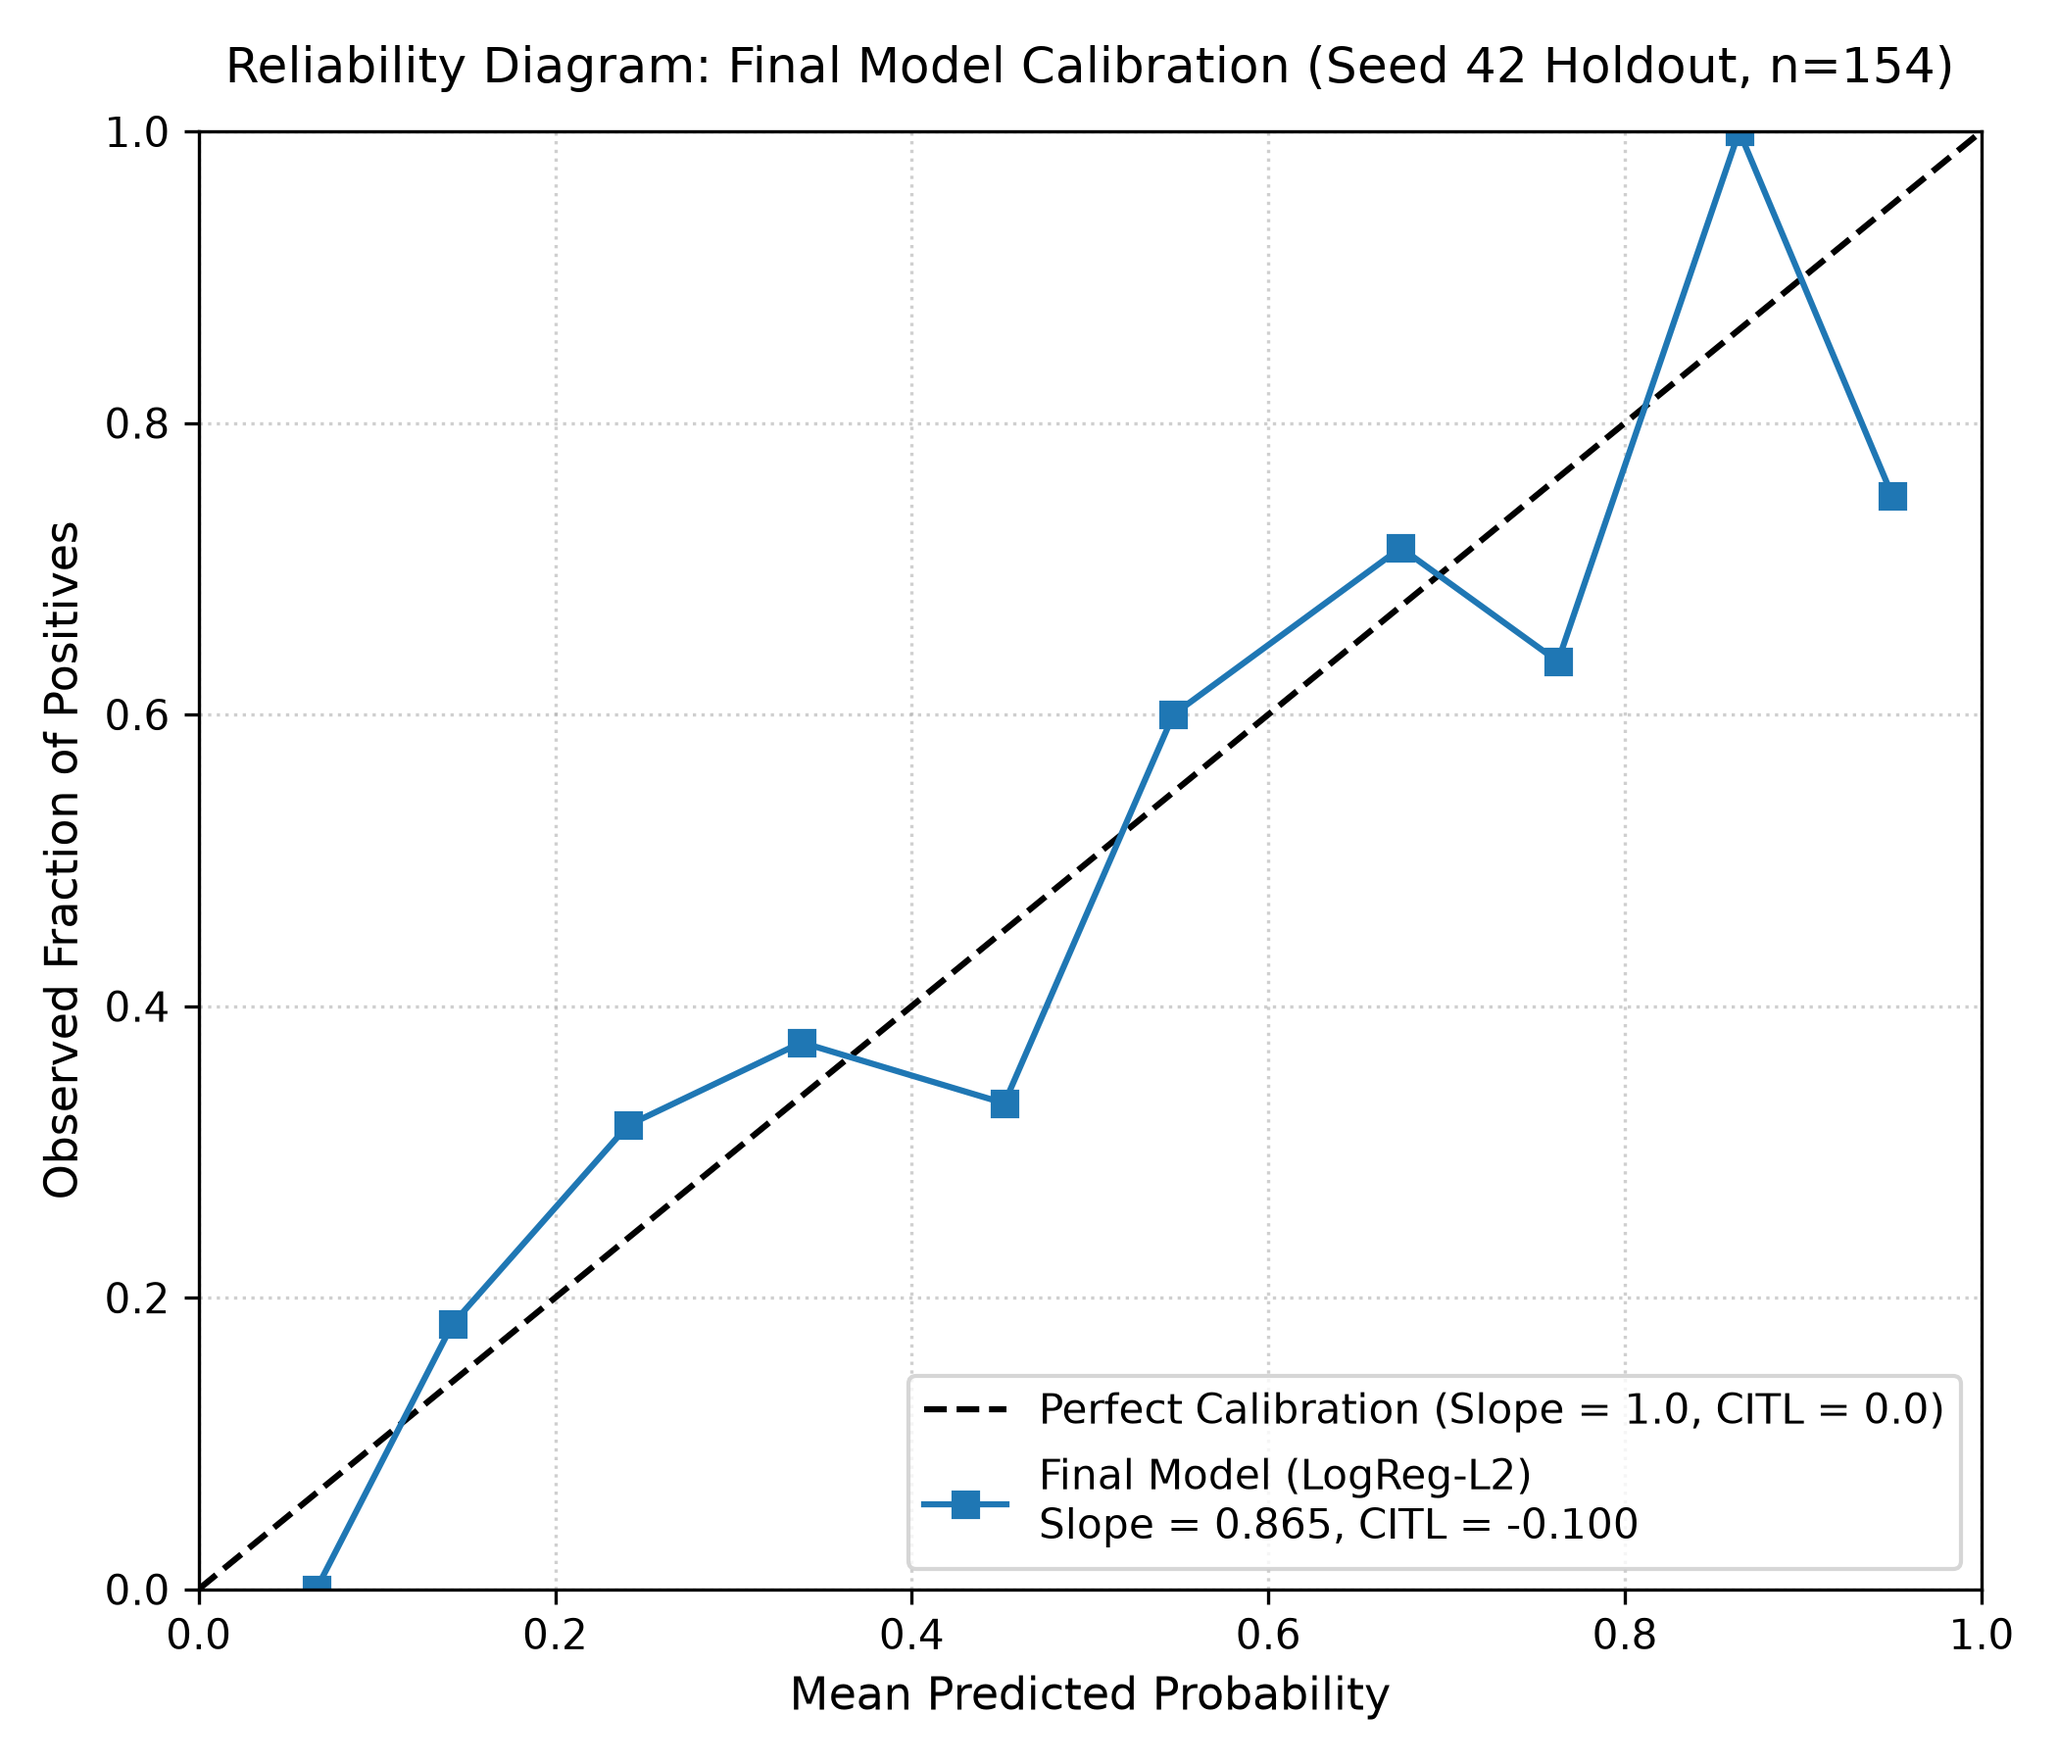
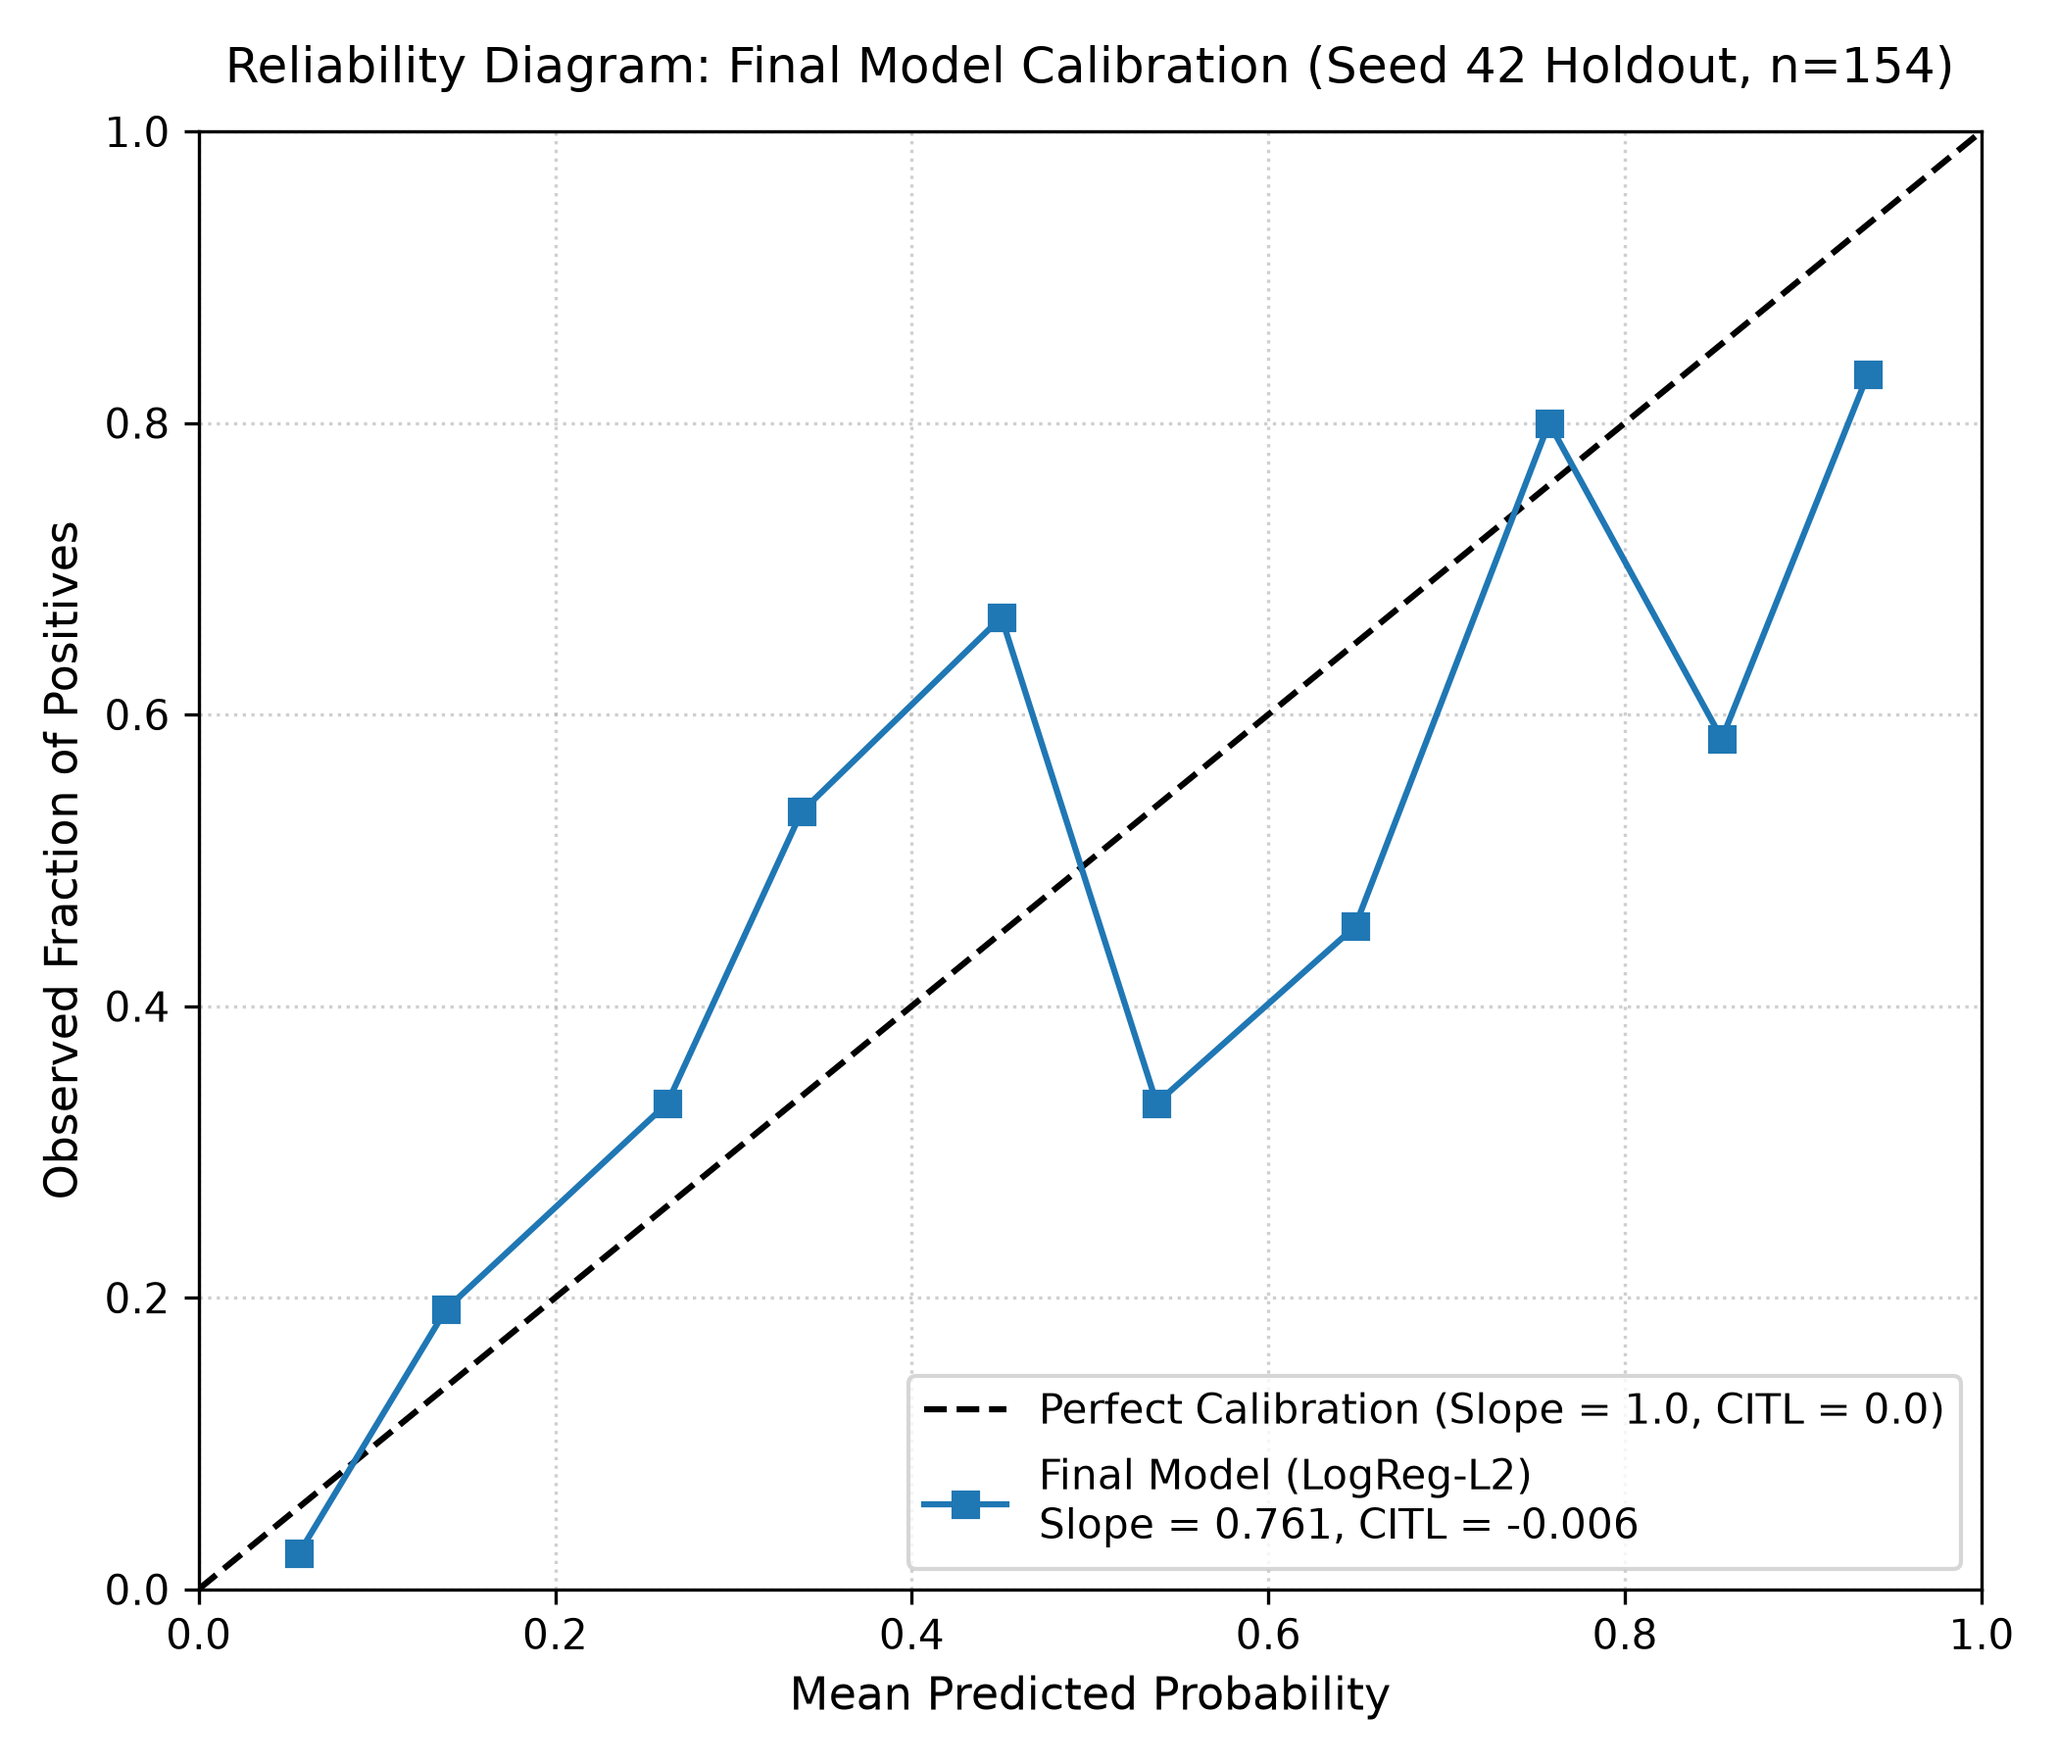
E5/E7: Correct Seed 42 split from StratifiedKFold fold 0 to train_test_split and recompute holdout metrics and bootstrap refits

diff --git a/v3/scripts/run_e5_threshold_calibration_dca.py b/v3/scripts/run_e5_threshold_calibration_dca.py
@@ -4,7 +4,7 @@ import warnings
 import numpy as np
 import pandas as pd
 import matplotlib.pyplot as plt
-from sklearn.model_selection import RepeatedStratifiedKFold, StratifiedKFold, cross_val_predict
+from sklearn.model_selection import RepeatedStratifiedKFold, StratifiedKFold, cross_val_predict, train_test_split
 from sklearn.impute import SimpleImputer
 from sklearn.preprocessing import StandardScaler
 from sklearn.linear_model import LogisticRegression
@@ -204,8 +204,12 @@ def main():
     # PART 2: SEED 42 HOLDOUT EVALUATION (CLINICAL TEST BENCHMARK)
     # --------------------------------------------------------------------------
     print("\nRunning Seed 42 holdout evaluation (614 train / 154 test)...")
-    skf_seed42 = StratifiedKFold(n_splits=5, shuffle=True, random_state=42)
-    train_idx, test_idx = next(skf_seed42.split(X, y))
+    train_idx, test_idx = train_test_split(
+        np.arange(len(raw)),
+        test_size=0.20,
+        random_state=42,
+        stratify=y
+    )
     assert_disjoint(train_idx, test_idx)
     
     X_tr42 = X.iloc[train_idx].copy().reset_index(drop=True)

diff --git a/v3/scripts/run_e7_bootstrap_shap_explainability.py b/v3/scripts/run_e7_bootstrap_shap_explainability.py
@@ -5,7 +5,7 @@ import numpy as np
 import pandas as pd
 import matplotlib.pyplot as plt
 import seaborn as sns
-from sklearn.model_selection import StratifiedKFold
+from sklearn.model_selection import StratifiedKFold, train_test_split
 from sklearn.impute import SimpleImputer
 from sklearn.preprocessing import StandardScaler
 from sklearn.linear_model import LogisticRegression
@@ -33,8 +33,12 @@ def main():
     feature_names = list(X.columns)
     n_features = len(feature_names)
     
-    skf = StratifiedKFold(n_splits=5, shuffle=True, random_state=42)
-    train_idx, test_idx = next(skf.split(X, y))
+    train_idx, test_idx = train_test_split(
+        np.arange(len(df_raw)),
+        test_size=0.20,
+        random_state=42,
+        stratify=y
+    )
     assert_disjoint(train_idx, test_idx)
     
     X_tr_raw = X.iloc[train_idx].copy().reset_index(drop=True)
